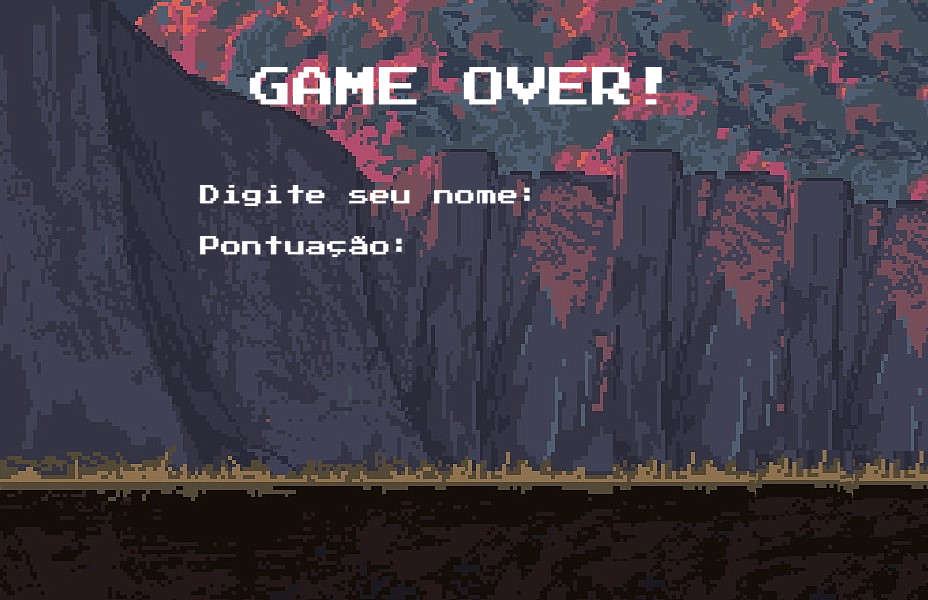
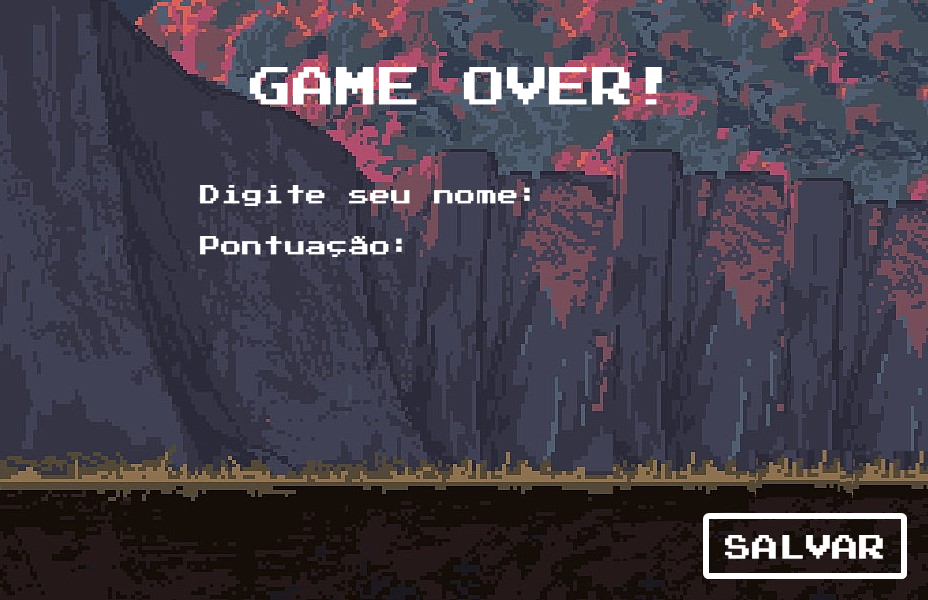
Elaborado por Live Share: Criação dos botões, criação do DAO, elaboração de ajustes.

Changed region(s): [[0.75, 0.84, 1.0, 0.99]]

diff --git a/versao_final/sistema.py b/versao_final/sistema.py
@@ -4,6 +4,7 @@ from tela import tela
 from cenario import Cenario
 from obstaculo import Obstaculo
 from singleton import Singleton
+from DAO.rankingDAO import RankingDAO
 import pygame
 import sys, time
 import pygame
@@ -12,7 +13,7 @@ import pygame
 """ to do list:
         - mover toda a lógica de desenho e apresentação de informações para a view
         - achar um jeito melhor para fazer a lógica de estados (código muito repetitivo)
-        - ajeitar botões
+        ✓ - ajeitar botões
         ✓ - desenho dos backgrounds
 """
 
@@ -22,12 +23,9 @@ class Sistema(Singleton):
     def __init__(self):
         pygame.init()
         self.__estado_jogo = None     # a ser implementado com o menu
-        self.__recorde = 0            # implementar com o DAO
-        self.__jogo = Jogo(jogador=Jogador(),
-                            cenario=Cenario([Obstaculo([928,284], 380, "Morcego"),    # Golem 264
-                                            Obstaculo([1300,367], 380, "Golem")]),    # Mocego 1500
-                            inimigos=[]
-                        )
+        self.__ranking_dao = RankingDAO()
+        self.__ranking = {}
+        self.__jogo = Jogo()
 
         self.__click = False
         self.__fundo_atual = None
@@ -51,6 +49,10 @@ class Sistema(Singleton):
     @recorde.setter
     def recorde(self, novo_recorde):
         self.__recorde = novo_recorde
+
+    # salva a pontuacao
+    def salvar(self):
+        pass
 
 
     # desenha o atual fundo em cada seção do menu
@@ -89,6 +91,7 @@ class Sistema(Singleton):
             self.__jogo.atualizar(dt)
             
             if self.__jogo.final:
+                print("morreu")
                 self.final()
             
             self.checar_eventos()
@@ -149,13 +152,14 @@ class Sistema(Singleton):
         self.__estado_jogo = "final"
         self.__fundo_atual = pygame.image.load("versao_final/src/backgrounds/tela_final.png")
 
-        font = pygame.font.Font('versao_final/src/fonte/pressstart.ttf', 32)
-        input_box = pygame.Rect(100, 100, 140, 32)
-        color_inactive = pygame.Color('gray')
-        color_active = pygame.Color('white')
+        font = pygame.font.Font('versao_final/src/fonte/pressstart.ttf', 16)
+        button_salvar = pygame.Rect(705, 510, 210, 74)
+        input_box = pygame.Rect(550, 172, 274, 40)
+        color_inactive = pygame.Color('white')
+        color_active = pygame.Color('gray')
         color = color_inactive
         active = False
-        
+        text = ''
         
         while self.__estado_jogo == "final":
             mx, my = pygame.mouse.get_pos()
@@ -183,5 +187,22 @@ class Sistema(Singleton):
                             text = text[:-1]
                         else:
                             text += event.unicode
+                
+                if button_salvar.collidepoint((mx, my)):
+                    if self.__click:
+                        del self.__jogo
+                        self.__jogo = Jogo()
+                        print(self.__jogo.final)
+                        self.menu()
+                        """implementar self.salvar() para atualizar ranking"""
 
-           
+            self.desenhar_fundo()
+
+            txt_surface = font.render(text, True, color)
+            txt_pontuacao = font.render("{:.1f}".format(self.__jogo.pontuacao), True, pygame.Color("white"))
+            tela.screen.blit(txt_surface, (input_box.x+5, input_box.y+10))
+            tela.screen.blit(txt_pontuacao, (450, 238))
+            pygame.draw.rect(tela.screen, color, input_box, 2)
+            
+            self.checar_eventos()
+            self.atualizar_tela()

diff --git a/versao_final/animacao.py b/versao_final/animacao.py
@@ -72,7 +72,7 @@ class AnimacaoCavaleiro(Animacao):
 
         self.__sprite_atual_index = 0
         self.__sprite_atual = self.__sprites_jogador_movendo[self.__sprite_atual_index]
-        self.__sprite_atual = pygame.transform.scale(self.__sprite_atual, (26*3,29*3))
+        self.__sprite_atual = pygame.transform.scale(self.__sprite_atual, (26*2,29*2))
 
         self.__rect = self.__sprite_atual.get_rect()
         self.image = self.__sprite_atual
@@ -101,7 +101,7 @@ class AnimacaoCavaleiro(Animacao):
                 self.__sprite_atual_index = 0
             self.__sprite_atual = self.__sprites_jogador_pulando[int(self.__sprite_atual_index) - 1]
 
-        self.__sprite_atual = pygame.transform.scale(self.__sprite_atual, (26*3,29*3))
+        self.__sprite_atual = pygame.transform.scale(self.__sprite_atual, (26*2,29*2))
         self.__rect = self.__sprite_atual.get_rect()
         self.image = self.__sprite_atual
 
@@ -155,7 +155,7 @@ class AnimacaoGolem(Animacao):
 
         self.__sprite_atual_index = 0
         self.__sprite_atual = self.__sprites_golem_movendo[self.__sprite_atual_index]
-        self.__sprite_atual = pygame.transform.scale(self.__sprite_atual, (34*3,38*3))
+        self.__sprite_atual = pygame.transform.scale(self.__sprite_atual, (34*2,38*2))
 
         self.__rect = self.__sprite_atual.get_rect()
         self.image = self.__sprite_atual
@@ -181,7 +181,7 @@ class AnimacaoGolem(Animacao):
                 self.__sprite_atual_index = 0
             self.__sprite_atual = self.__sprites_golem_movendo[int(self.__sprite_atual_index) - 1] 
 
-        self.__sprite_atual = pygame.transform.scale(self.__sprite_atual, (34*3,38*3))
+        self.__sprite_atual = pygame.transform.scale(self.__sprite_atual, (34*2,38*2))
         self.__rect = self.__sprite_atual.get_rect()
         self.image = self.__sprite_atual
 
@@ -207,11 +207,11 @@ class AnimacaoFundo(Animacao):
 
 
 class Estatico(pygame.sprite.Sprite):
-    def __init__(self, posicao, sprite_path):
+    def __init__(self, posicao, sprite_path, escala):
         pygame.sprite.Sprite.__init__(self)
         self.posicao = posicao
         self.imagem = pygame.image.load(sprite_path)
-        self.imagem = pygame.transform.scale(self.imagem, (17*2,17*2))
+        self.imagem = pygame.transform.scale(self.imagem, (17*escala,17*escala))
         self.image = self.imagem
         self.rect = self.imagem.get_rect()
         self.rect.topleft = [self.posicao[0], self.posicao[1]]
@@ -219,10 +219,10 @@ class Estatico(pygame.sprite.Sprite):
 class EstaticoCoracao(Estatico):
 
     def __init__(self, posicao):
-        super().__init__(posicao, 'versao_final/src/estaticos/coracao.png')
+        super().__init__(posicao, 'versao_final/src/estaticos/coracao.png', 2)
 
 
 class EstaticoPoder(Estatico):
 
     def __init__(self, posicao, path):
-        super().__init__(posicao, path)
+        super().__init__(posicao, path, 1)

diff --git a/versao_final/jogo.py b/versao_final/jogo.py
@@ -1,5 +1,6 @@
 from jogador import Jogador
 from cenario import Cenario
+from obstaculo import Obstaculo
 from tela import tela
 import pygame
 from constantes import Constantes
@@ -7,9 +8,9 @@ from constantes import Constantes
 
 class Jogo():
 
-    def __init__(self, jogador: Jogador, cenario: Cenario, inimigos: list):
-        self.__jogador = jogador            # objeto do jogador
-        self.__inimigos = inimigos          # lista de objetos dos inimigos na tela
+    def __init__(self, cenario=Cenario([Obstaculo([928,330], 380, "Morcego"), Obstaculo([1300,400], 380, "Golem")])):
+
+        self.__jogador = Jogador()            # objeto do jogador
         self.__cenario = cenario            # objeto do cenário
         self.__pontuacao = 0                # pontuação atual do jogo
         self.__constantes = Constantes()
@@ -26,6 +27,14 @@ class Jogo():
     @property
     def final(self):
         return self.__final
+
+    @final.setter
+    def final(self, final):
+        self.__final = final
+
+    @property
+    def pontuacao(self):
+        return self.__pontuacao
 
 
     # checa as colisões entre obstaculos e poderes e o jogador
@@ -55,7 +64,7 @@ class Jogo():
         self.__pontuacao += dt * (sum([obs.velocidade for obs in self.__cenario.obstaculos])) / 100
 
         # mostra na tela a pontuação
-        font = self.__constantes.font
+        font = pygame.font.Font('versao_final/src/fonte/pressstart.ttf', 16)
         text_surface = font.render("{:.1f}".format(self.__pontuacao), True, (255, 255, 255))
         tela.screen.blit(text_surface, (10, 10))
 
@@ -77,8 +86,3 @@ class Jogo():
             self.pontuar(dt)                # pontua jogo e imprime a pontuação
         else:
             self.__final = True
-            # font = self.__constantes.font
-            # texto_ossos = font.render("OSSOS QUEBRADOS", True, (255, 255, 255))
-            # texto_perdeu = font.render("GAME OVER, {:.1f} Pontos".format(self.__pontuacao), True, (255, 255, 255))
-            # tela.screen.blit(texto_ossos,  (232, 200))
-            # tela.screen.blit(texto_perdeu,  (182, 300))

diff --git a/versao_final/DAO/DAO.py b/versao_final/DAO/DAO.py
@@ -1,0 +1,31 @@
+import json
+from abc import ABC
+from copy import copy
+
+
+class DAO(ABC):
+
+    def __init__(self, fonte=''):
+        self.fonte = fonte
+        self.cache = {}
+        try:
+            self.__load()
+        except TypeError:
+            self.__multiple_load()
+        except FileNotFoundError:
+            self.__dump()
+
+    def __dump(self):
+        json.dump(self.cache, open(self.fonte, 'w'), indent=4)
+
+    def __load(self):
+        self.cache = json.load(open(self.fonte, 'r'))
+
+    def __multiple_load(self):
+        fontes = copy(self.fonte)
+        for fonte in fontes:
+            self.fonte = fonte
+            self.__load()
+
+    def get_all(self):
+        return self.cache

diff --git a/versao_final/obstaculo.py b/versao_final/obstaculo.py
@@ -9,8 +9,7 @@ class Obstaculo(pygame.sprite.Sprite):
         self.__posicao = posicao
         self.__velocidade = velocidade
         self.__tipo = tipo
-        # self.__retangulo = pygame.Rect(self.__posicao[0], self.__posicao[1], self.__tamanho[0], self.__tamanho[1])
-
+        
         self.__animacao_morcego = pygame.sprite.Group(AnimacaoMorcego())
         self.rect_morcego = self.__animacao_morcego.sprites()[0].rect
 
@@ -39,6 +38,7 @@ class Obstaculo(pygame.sprite.Sprite):
        self.__posicao[0] -= self.__velocidade * dt
        if self.__posicao[0] <= -80:
            self.__posicao[0] = aparecer
+        #    self.__velocidade += 10
 
     # desenha os obstaculos
     def desenhar(self):

diff --git a/versao_final/cenario.py b/versao_final/cenario.py
@@ -54,6 +54,7 @@ class Cenario:
     # acelera todos os objetos do cenário (obstáculos e poderes)
     def acelerar(self):
         if self.obstaculos[0].posicao[0] <= -39:
+            print(self.__velocidade_acumulada)
             for obs in self.__obstaculos:
                 obs.velocidade += self.__aceleracao
             self.__velocidade_acumulada += self.__aceleracao
@@ -84,6 +85,7 @@ class Cenario:
 
     def atualizar(self, dt):
         self.desenhar()
+        # self.acelerar()
         self.mover_cenario(dt)
         self.invocador(dt)
 

diff --git a/versao_final/personagem.py b/versao_final/personagem.py
@@ -84,7 +84,7 @@ class Personagem(ABC):
     def posicao(self, nova):
         self.__posicao = nova
 
-    # Torna o Personagem invulnerável por um determinado tempo, que, assume 0.5 segundos caso o valor não for especificado
+    # Torna o Personagem invulnerável por um determinado tempo, que assume 0.5 segundos caso o valor não for especificado
     def tornar_invulneravel_por(self, tempo_inv=500):
         self.__tempo_inicial_inv = pygame.time.get_ticks()
         self.__tempo_inv = tempo_inv

diff --git a/versao_final/constantes.py b/versao_final/constantes.py
@@ -7,9 +7,7 @@ class Constantes(Singleton):
         super().__init__()
         self.limite_esquerda = 0
         self.limite_direita = 908
-        self.limite_chao = 394
+        self.limite_chao = 420
         self.velocidade_queda = 0.06
         self.velocidade = 10
-        self.font = pygame.font.Font('versao_final/src/fonte/pressstart.ttf', 32)
-        
-        
+        # self.font = pygame.font.Font('versao_final/src/fonte/pressstart.ttf', 32)

diff --git a/versao_final/jogador.py b/versao_final/jogador.py
@@ -10,7 +10,7 @@ from animacao import AnimacaoCavaleiro
 class Jogador(Personagem):
 
     def __init__(self):
-        super().__init__(vida=3, vida_maxima=3, velocidade=400, posicao=[10,394])
+        super().__init__(vida=3, vida_maxima=3, velocidade=400, posicao=[10,420])
         self.constantes = Constantes()
         self.__animacao = pygame.sprite.Group(AnimacaoCavaleiro())
         self.__tamanho_pulo = 55

diff --git a/versao_final/DAO/rankingDAO.py b/versao_final/DAO/rankingDAO.py
@@ -1,0 +1,7 @@
+from DAO.DAO import DAO
+
+
+class RankingDAO(DAO):
+
+    def __init__(self):
+        super().__init__('versao_final/src/ranking.json')
